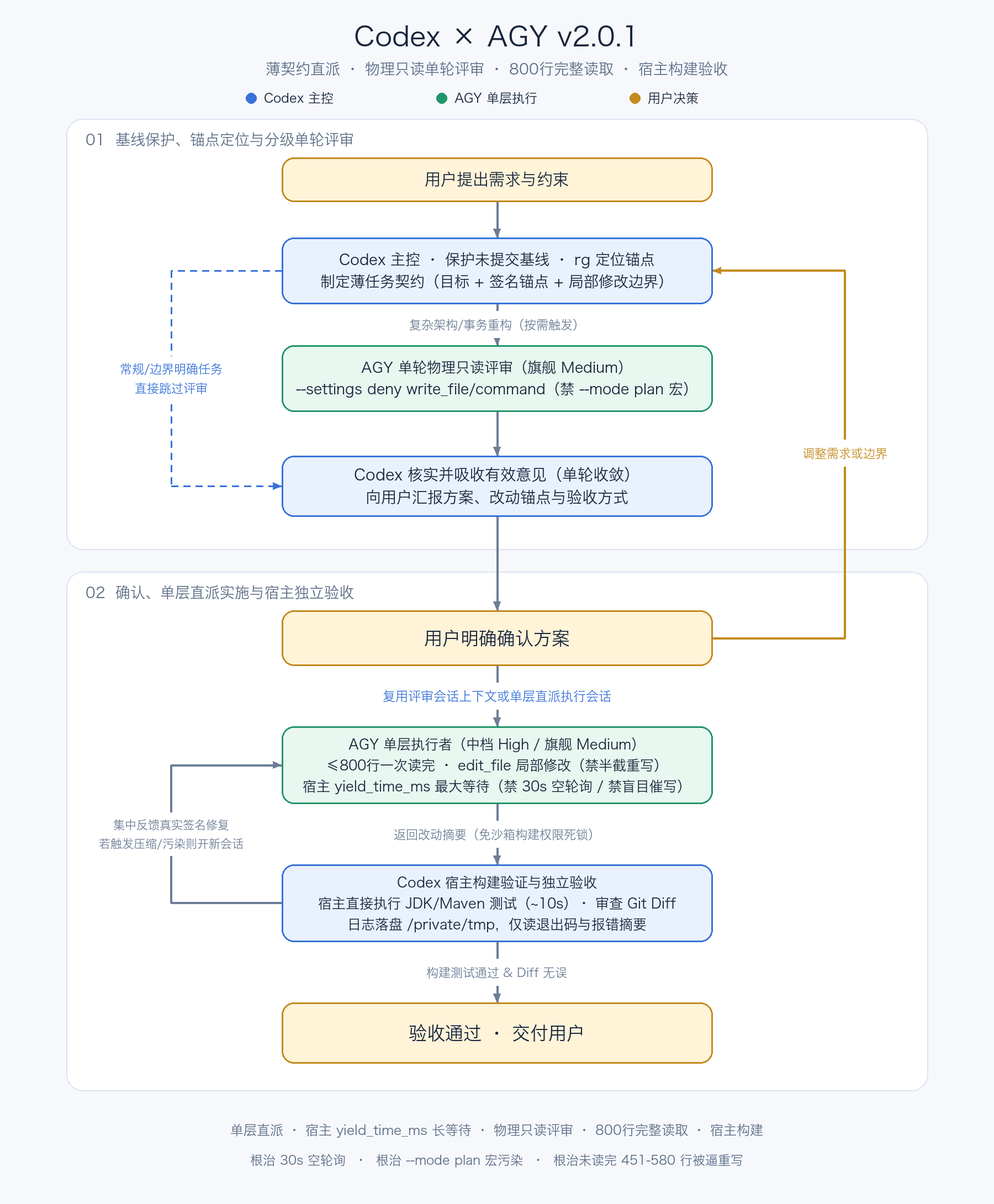
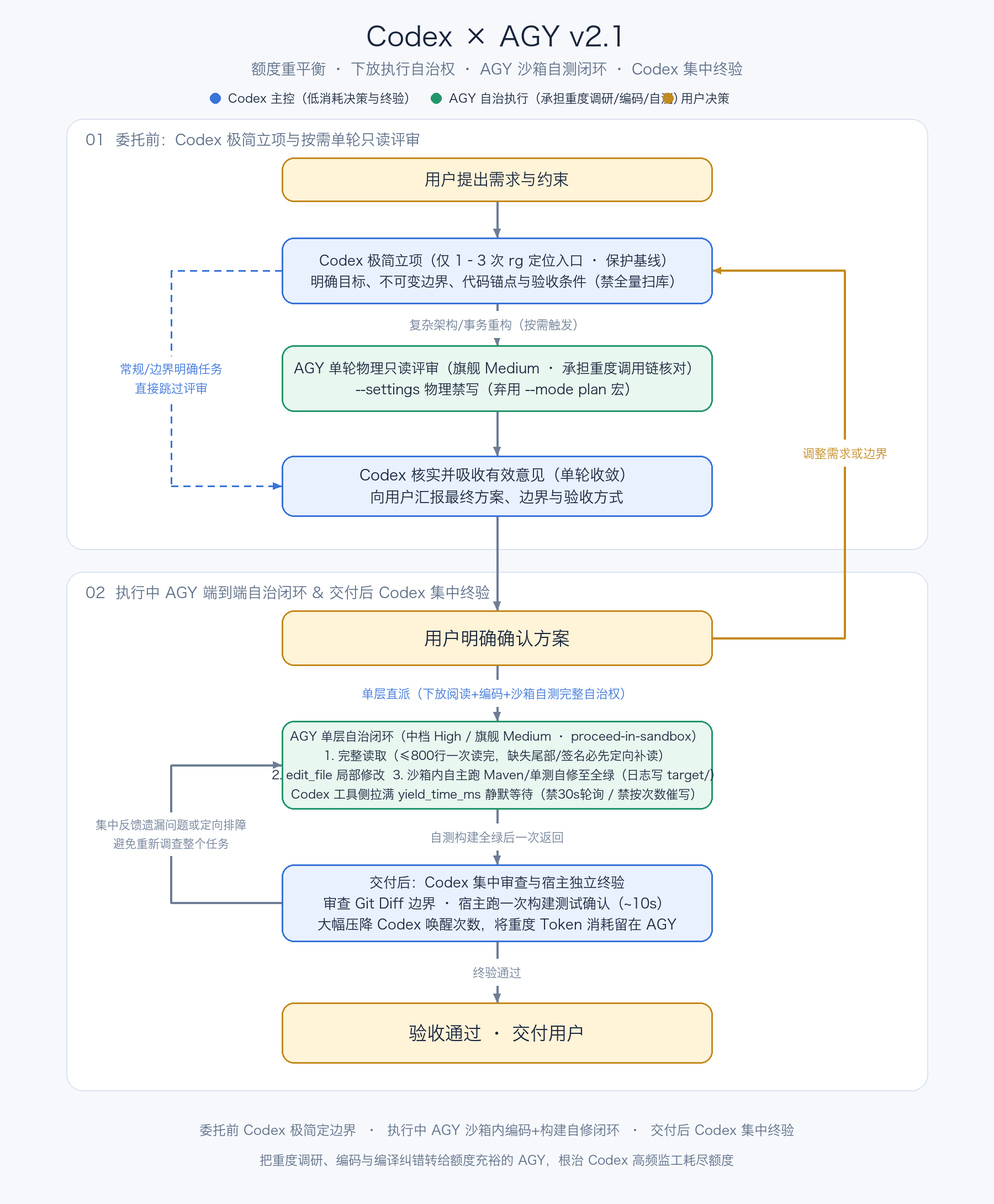
Upgrade to v2.1.0 quota-rebalancing architecture: grant AGY full sandbox build-fix autonomy

diff --git a/codex-agy/SKILL.md b/codex-agy/SKILL.md
@@ -1,76 +1,73 @@
 ---
 name: codex-agy
-description: 通过 Antigravity CLI（agy）使用 AGY 作为 Codex 的实现 Subagent。采用薄契约直派、按需单轮物理只读评审、宿主长等待（yield_time_ms）、允许必要补读与局部修改铁律。Codex 保留技术决策、基线保护、构建验证和独立验收权。
+description: 通过 Antigravity CLI（agy）使用 AGY 作为 Codex 的实现 Subagent。以“节省 Codex 额度、下放执行自治权”为核心：委托前 Codex 定边界，执行中 AGY 自主完成阅读、局部编码与沙箱内构建自修复闭环，交付后 Codex 集中终验。
 ---
 
-# 高效调用 AGY（v2.0.2 交叉审计定稿）
+# 高效调用 AGY（额度重平衡与执行自治架构）
 
-## 核心机制约束（Codex 与 AGY 双向硬边界）
+## 核心目标：把重度消耗转给 AGY，把 Codex 调用压到最低
 
-1. **对 Codex 的“三不准”指挥纪律（防瞎指挥催生重写灾难）**
-   - **不准凭读取次数或耗时宣布“上下文已充分”**：读取次数多（如 150 行切片读了 40 次）不代表文件已读完整（如 580 行文件只读到 450 行），更不代表关联 Mapper/DTO 签名已掌握。
-   - **不准用“停止阅读、立即写入”的催写指令施压**：严禁在委托或续接 Prompt 中写“你已读完所有依赖，禁止再读文件，立即写入”。
-   - **不准把缺失原文的定向补读当成无效工作**：即使续接已有会话，只要待修改的目标区间、本类尾部私有方法或关联接口签名尚未读取，**必须允许并要求 AGY 先定向补读原文再修改**。
-2. **对 AGY 的“先读全、再局部改”执行铁律**
-   - AGY 原生 `read_file` 单次支持 **800 行**（46,080 字节），`Path` **必须传入绝对路径**。800 行以内的源码文件应一次性完整读完，禁止按 100–150 行碎片化切片慢读导致漏掉文件尾部 helper。
-   - **对已有业务类必须使用 `edit_file` 局部修改**：若发现目标行区间或依赖的 Mapper/Service 签名尚未读入上下文，**必须先定向 `read_file` 补齐真实原文**，严禁在缺失原文时调用 `write_file(Overwrite=true)` 全文重新生成已有业务类或臆造方法名。
-3. **宿主持续等待，禁止短轮询唤醒模型（防 Codex 额度空转）**
-   - 控制等待间隔的是 Codex 宿主工具（`exec_command` / `write_stdin`）的 **`yield_time_ms`**，而非 `agy` 的 `--print-timeout`（后者只会导致 `agy` 到点自杀截断正在执行的回合）。
-   - 调用 `agy -p` 时，应将宿主工具单次等待拉到上限，尽量在工具侧完成等待后再返回模型；**严禁显式硬编码 `yield_time_ms: 1000` 或 `30000` 循环空轮询**，等待期间更**禁止夹带 `git diff`、`stat` 或解析 `~/.gemini/antigravity-cli/` 内部 `.pb` / `transcript.jsonl` 记录**。
-4. **只读评审禁用 `--mode plan`，改用权限层物理只读**
-   - `agy` CLI 的 `--mode plan` 在二进制底层会自动注入 `/plan` 前缀，强制展开 1,500+ 字符的 `<PLAN>` 系统宏（要求全库调研并写 Artifact 计划文档），加 `--disable-slash-commands` 也无法阻止模式自身的注入。
-   - 只读可行性评审**一律不传 `--mode plan`、不在 Prompt 内写 `/plan`**，改用 `--mode accept-edits --disable-slash-commands` 配合 `--settings` 在权限层物理禁写（`deny: ["write_file(*)", "command(*)"]`）。
-5. **单层直派，砍掉外部双 CLI 进程传话筒**
-   - 默认由 **Codex 直接派发单个 AGY 会话**完成编码与修复。**严禁在外部同时启动“AGY 负责人 + AGY 执行者”两个独立 `agy -p` 进程传话或发 `send_message`**（负责人未读源码细节却转发催写指令，只会放大指挥错误）。
-6. **权限与交付要求一致 + 宿主构建解耦 + 脏工作区基线保护**
-   - **权限一致**：若要求 AGY 读取 `/private/tmp` 下的基线或日志，必须在 `--settings` 中开启 `"allowNonWorkspaceAccess": true` 并显式加入 `read_file(/private/tmp/...)`；否则直接由 Codex 把关键信息内嵌在 Prompt 中。
-   - **宿主构建**：本地 JDK/Maven 构建与测试统一由 Codex 在宿主环境执行（约 10 秒），不在 AGY 沙箱内折腾跨目录构建权限，也不做开工前 `git status` / `AGY_WORKER_READY` 仪式性探测。
-   - **基线保护**：若工作区存在未提交的前序实现，开工前必须先保存快照或 `git stash create`，**严禁在回滚单轮修改时直接恢复 `git HEAD` 清空未提交成果**。
+协作的衡量标准是：**完成同等任务时，Codex 的总模型调用次数与 Token 消耗大幅下降，返工轮次最小化**。为此必须把“编码”和“执行过程的自主权（详查代码、编译自检、局部纠错）”一并交给额度充裕的 AGY，禁止 Codex 充当高频监工或人肉编译器。
 
 ---
 
-## 从设计到验收（精简 4 步流）
+## 四个阶段的职责边界
 
-### 1. Codex 保护基线、定向锚定与薄任务契约
-- 检查 `git status --short`：若有未提交改动，先保存恢复基线。
-- 用 `rg` 定位入口、契约与受影响文件，整理**薄任务契约（Thin Spec）**，包含：
-  1. **业务目标与必须保留的既有行为**（先与用户确认是否需要额外强协调语义，不自行扩张架构）；
-  2. **目标文件绝对路径与真实方法签名锚点**；
-  3. **实施边界**：要求用绝对路径调用 `read_file` 一次性读完 ≤800 行文件，缺失依赖签名时允许定向补读，对已有类用 `edit_file` 局部修改，严禁 `write_file(Overwrite=true)` 整体重写；
-  4. **验收标准**。
+### 1. 委托前：Codex 极简立项（不替 AGY 做全量代码阅读）
+- **控制 Codex 上下文体积**：Codex 仅用 1–3 次 `rg` 确认核心入口目录与关键契约文件，**禁止 Codex 自行读取几十个源码文件或跨多个仓库做地毯式调研**（每次把几万行代码塞进 Codex 上下文，后续每一轮调度都会成倍烧掉 Codex 额度）。
+- **脏工作区基线保护**：若 `git status --short` 显示工作区已有未提交的前序实现，先用 `git stash create` 或打包备份记录恢复基线，**严禁在回滚单轮改动时直接对脏工作区执行 `git checkout HEAD` / `git reset --hard`**。
+- **明确四要素即可派发**：
+  1. **业务目标与关键技术决策**（先向用户确认是否需要强协调语义，不自行过度设计）；
+  2. **不可变边界**（必须保留的表、接口、协议、事务/ACK 顺序）；
+  3. **代码锚点与局部修改要求**；
+  4. **验收命令与通过标准**（如本机 JDK8 离线 Maven 测试命令）。
 
-### 2. 分级触发：单轮物理只读可行性评审（按需）
-- **何时跳过**：需求边界清晰、单模块局部改造、明确删减冗余或常规修复，向用户确认方案后直奔第 3 步。
-- **何时触发**：涉及跨服务契约、并发/锁/事务边界、状态机重构或存在技术路线分歧时，用旗舰模型 Medium 做**单轮（One-shot）只读评审**：
+### 2. 按需可行性评审：让 AGY 做重度只读调研（单轮收敛）
+- **常规/边界清晰任务**：直接跳过评审，向用户确认方案后进入第 3 步实施。
+- **复杂架构/事务重构任务**：把跨文件调用链核对与可行性评估交给旗舰模型 Medium 的 AGY 单轮完成。
+- **禁用 `--mode plan`（防 1,500 字 `<PLAN>` 宏污染）**：`agy` 二进制底层会将 `--mode plan` 自动展开为 `/plan` 宏（要求全库扫描并写 Artifact 文件）。只读评审一律使用 `--mode accept-edits --disable-slash-commands` 搭配 `--settings` 物理禁写：
   ```bash
   agy --project '<项目ID>' --model '<旗舰 Medium 模型 ID>' --mode accept-edits --disable-slash-commands \
     --settings '{"allowNonWorkspaceAccess":false,"enableTerminalSandbox":true,"toolPermission":"request-review","permissions":{"allow":["read_file(/绝对路径/工作区根目录)"],"deny":["write_file(*)","command(*)","mcp(*)","read_url(*)"]}}' \
     --output-format json \
-    -p '只读可行性评审（禁止写文件或执行命令）。请用 read_file（传绝对路径，≤800行一次读完）读取以下锚点文件及必要关联接口，直接指出：1. 方案是否可行；2. 与现有签名/事务/协议的冲突或遗漏边界；3. 必须修正项。'
+    -p '只读可行性评审（禁止写文件或执行命令）。请用 read_file（传绝对路径，≤800行一次读完）核对以下锚点文件及关联调用链，指出：1. 方案是否可行；2. 与现有接口签名/事务/协议的冲突或遗漏边界；3. 必须修正项。'
   ```
-- **单轮收敛**：Codex 核实 AGY 的评审意见后，采纳有效修正并向用户汇报最终方案等待确认，不进行多轮形式化辩论。
+- Codex 吸收有效意见后直接向用户汇报定稿，**不与 AGY 进行多轮文字辩论**。
 
-### 3. 用户明确确认后：单层直派实施
-收到用户明确确认后，放开工作区文件读写权限，启动单层实施（可复用评审会话 `conversation_id` 并更新 `--settings` 放开 `write_file`，或直派新会话）：
+### 3. 执行中：AGY 端到端自治闭环，Codex 静默等待
+收到用户明确确认后，**由 Codex 直接派发单个 AGY 执行会话**（严禁在外部同时起“AGY 负责人 + AGY 执行者”两个 CLI 进程传话）。
+
+#### （1）赋予 AGY 沙箱内“编码 + 本地构建自修复”完整自治权
+- 不要让 AGY 写完代码盲交回来等 Codex 编译报错！那会让每次拼写/签名小错都消耗一轮 Codex 40 万 Token 的上下文往返。
+- 使用 `--sandbox` 搭配会话设置 `"enableTerminalSandbox": true, "toolPermission": "proceed-in-sandbox"`，允许 AGY 在沙箱内直接运行本地 JDK/Maven 测试，**自己看报错、自己修到编译与单测全绿后再退出返回**。
+- **避开 `/private/tmp` 写冲突与 `unsandboxed` 拒绝的铁律**：
+  - macOS Seatbelt 沙箱下，向 `/private/tmp` 中已存在的日志文件做 `>` 重定向会报 `operation not permitted`，进而诱发 AGY 尝试 `BypassSandbox=true` 被拒（`unsandboxed` 错误）。
+  - 因此必须在提示词中规定：**AGY 在沙箱内运行 Maven/测试时，直接读取命令标准输出，或将日志重定向到工作区内的 `target/` 目录（如 `target/agy-build.log`），严禁重定向到 `/private/tmp`，严禁设置 `BypassSandbox=true`**。
+
 ```bash
-agy --project '<项目ID>' --model '<中档 High 模型 ID>' --mode accept-edits --disable-slash-commands \
-  --settings '{"allowNonWorkspaceAccess":false,"enableTerminalSandbox":true,"toolPermission":"request-review","permissions":{"allow":["read_file(/绝对路径/工作区根目录)","write_file(/绝对路径/工作区根目录)"],"deny":["command(*)","mcp(*)","read_url(*)"]}}' \
+agy --project '<项目ID>' --model '<中档 High 模型 ID>' --mode accept-edits --disable-slash-commands --sandbox \
+  --settings '{"allowNonWorkspaceAccess":false,"enableTerminalSandbox":true,"toolPermission":"proceed-in-sandbox","permissions":{"allow":["read_file(/绝对路径/工作区根目录)","write_file(/绝对路径/工作区根目录)","command(env)","command(mvn)","command(git status)","command(git diff)"],"deny":["unsandboxed(*)","command(git checkout)","command(git reset)","command(git clean)","command(git commit)","command(git push)","mcp(*)","read_url(*)"]}}' \
   --output-format json \
-  -p '按以下已确认方案完成代码与测试修改。规则：1. 文件工具必须传绝对路径；2. 800行以内的待改文件一次 read_file 读完，未读到的本类尾部或关联 Mapper/DTO 签名必须先定向补读核实；3. 对已有复杂业务类必须使用 edit_file 局部修改，严禁在未核实原文时用 write_file 全文重写或臆造方法；4. 无需运行外部 Maven 命令，完成后返回改动摘要，由 Codex 宿主执行构建验证。'
+  -p '按以下已确认边界完成编码、单测与本地构建自检闭环：
+1. 完整读取：调用文件工具必须传绝对路径；800行以内的文件一次 read_file 读完（禁止150行切片慢读）；未读到的本类尾部私有方法或关联 Mapper/DTO 签名必须先定向补读核实。
+2. 局部修改：对已有复杂业务类必须使用 edit_file 局部修改，严禁在缺失原文时调用 write_file(Overwrite=true) 全文重新生成或臆造不存在的方法。
+3. 自主构建修复：修改后直接在沙箱内运行构建测试命令（不要设 BypassSandbox=true，不要重定向到 /private/tmp，如需落盘日志写到 target/agy-build.log），若有编译或测试错误请自行定位修复，直到构建全绿后再集中返回改动摘要与测试结果。'
 ```
 
-### 4. Codex 宿主构建验证与集中修复
-- AGY 返回后，Codex 在宿主环境审查 `git diff` 并运行真实构建测试（如 JDK8 Maven `clean test` / `clean package`）。
-- 若有编译或测试问题，Codex 将**所有报错位置、真实接口签名与审查发现一次性汇总**，用 `--conversation '<实施会话 ID>'` 续接修复（保证要求读取的日志/基线路径在 `permissions.allow` 中已授权，或直接内嵌关键报错片段）。
-- 若会话已出现 `CHECKPOINT` 自动压缩且丢失源码细节，或跨多轮改动导致历史状态与当前工作区文件不一致，则从当前已核实的 Git 状态开启新会话，仅传入待修文件的绝对路径与真实签名。
+#### （2）Codex 执行中“三不准”与长等待纪律
+- **工具侧持续等待，减少无信息唤醒**：Codex 调用 `exec_command` / `write_stdin` 等待 `agy -p` 时，必须将 `yield_time_ms` 设为工具支持的最大上限；`agy` 侧不设短 `--print-timeout` 截断任务。
+- **等待期间零折腾**：若单次等待到期进程仍在运行，仅继续純等待；**严禁每隔 1–30 秒唤醒模型轮询，严禁在等待期间夹带 `git diff`、`stat` 或编写脚本解析 `~/.gemini/antigravity-cli/` 内部 `.pb` / `transcript.jsonl` 记录**。
+- **不准凭读取次数或耗时催写**：严禁主观宣布“你已读取 N 次源码、上下文已具备，禁止继续读取、立即写入”，不得把 AGY 对缺失原文或关联签名的必要补读当成无效工作。
+
+### 4. 交付后与阻塞处理：Codex 集中终验、定向排障
+- **交付后一次性终验**：AGY 完成自检返回后，Codex 审查 `git diff` 并独立运行一次宿主构建测试确认结果。若有遗漏问题，**一次性集中列出所有问题、文件行号与真实签名**，用 `--conversation '<会话 ID>'` 交回修复。
+- **出现阻塞时定向处理**：
+  - 若因权限拒绝（`denied_actions`）中断，只针对被拒的具体路径/命令修正 `--settings`（例如确实需要读 `/private/tmp` 下某文件时，必须同步开启 `"allowNonWorkspaceAccess": true` 并授权该路径），然后续接原会话，**严禁推翻重查整个任务**。
+  - 若会话已发生 `CHECKPOINT` 自动压缩（~256K tokens）且出现接口遗忘，则从当前已核实的 Git 状态开启新会话，仅传入剩余待修文件与具体问题。
 
 ---
 
-## 项目归属、模型与额度检查
+## 项目归属与模型额度（仅首次核对）
 
-1. **同名项目精确匹配**：
-   - 在目标仓库根目录（`pwd -P` 解析后的绝对路径）启动 `agy`。
-   - 首次委托时从 `~/.gemini/config/projects/*.json` 选择名称匹配且 `projectResources.resources[]` 仅绑定当前目标仓库的精确项目 `id`，后续复用 `--project '<项目 ID>'`。
-2. **模型与额度检查**：
-   - 仅在当前对话首次使用 AGY、或遇到配额/429 报错时执行一次 `agy models` 与 `agy -p '/usage'`。
-   - 复杂评审用有额度的旗舰模型 Medium（如 `gemini-4-argon-medium`）；编码与修复用中档模型 High（如 `gemini-3.8-flash-high`）或旗舰 Medium。
+1. **同名项目精确匹配**：首次委托时从 `~/.gemini/config/projects/*.json` 选出名称匹配且 `projectResources.resources[]` 仅绑定当前目标仓库的精确 `id`，后续复用 `--project '<项目 ID>'`。
+2. **额度与模型**：仅在对话首次使用 AGY 或遇 429 报错时查一次 `agy models` 与 `agy -p '/usage'`。只读评审用旗舰模型 Medium（如 `gemini-4-argon-medium`），实施与自测用中档模型 High（如 `gemini-3.8-flash-high`）或旗舰 Medium。

diff --git a/CHANGELOG.md b/CHANGELOG.md
@@ -1,33 +1,40 @@
 # Changelog
 
-## [2.0.2] - 2026-11-10 — 双 Agent 交叉审计最终共识（确立 Codex“三不准”指挥纪律与必要补读保护）
+## [2.1.0] - 2026-11-10 — 额度重平衡与执行自治架构（解决“Codex 额度耗尽 100%、Gemini 仅耗 6%”的本末倒置）
 
-经与 Codex 对原始执行日志（`01a1b0a7` 与 `31cd7989`）的双向交叉复核，双方对全部事实链条、各自责任边界及底层机制达成完整共识，并合入最终定稿规则：
+### 一、直击核心矛盾：为什么把编码交出去，Codex 额度反而比自己干还快耗尽？
 
-### 一、双方共同确认的完整因果链与责任边界
+复盘整个任务的终极失败指标：**用户引入 AGY（Gemini）是为了分担工作、节省主控 Codex 的宝贵额度；结果任务结束时 Codex 额度被彻底烧光，而 Gemini 额度仅消耗了 6%。**
 
-1. **`PublicHealthIngestService` 全文覆盖与 11 个编译错误的完整证据链**
-   - `15:02`：AGY 分三次切片读取 `PublicHealthIngestService.java`（共 580 行）的 `1–450` 行，尚未读取 `451–580` 行（包含私有 helper、明细插入与索引更新）。
-   - `15:09–15:15`：**Codex 指挥失误**——未核实读取覆盖范围，仅凭“已读约 30–46 次、7 分钟无写入”主观断言“已读取所有必要依赖”，先令负责人发高优 `send_message` 催写，又在第 131 步下令“禁止重复全量阅读，立即开始修改”。
-   - `15:17`：**AGY 执行违规**——在未对缺失的 `451–580` 行及关联 Mapper 做定向补读的情况下，违反局部修改要求，调用 `write_file(Overwrite=true)` 整体生成 529 行新代码并臆造方法名。
-   - `15:24`：**Codex 权限冲突**——构建报 11 处编译错误后，AGY 从基线包解压原文件试图补读 `420–580` 行，被 Codex 配置的 `--settings`（禁止访问工作区外 `/private/tmp`）拦截，导致返工进一步扩大。
-   - `15:36`：会话累计上下文达到 ~256K 触发 `CHECKPOINT` 自动压缩。
-2. **Codex 49 次空等待返回与缓存成本核算**
-   - Codex 在调用 `write_stdin` 时显式硬编码了 `yield_time_ms: 30000`（30 秒）及 `1000`（1 秒），主动选择了高频唤醒模型并穿插检查 `git diff`、`stat` 与内部日志的执行方式，在最后一轮产生 49 次空输出返回（紧随其后的模型调用累计携带 1,832 万输入 tokens）。
-   - 按 GPT-6.1 Sol 官方 Standard credits 计价（缓存输入单价为未缓存输入的 5%），全天 8,364 万缓存输入对应的 credits 仍约为 77.5 万未缓存输入的 **5.4 倍**，高缓存命中率并不能消除高频唤醒带来的主要成本。
-3. **无并行收益的负责人传话层**
-   - 负责人（`7f11f987`）在未独立核实源码阅读覆盖率的情况下，直接照搬 Codex 的错误判断向执行者转发高优先级催促，既未提供有效协调信息，又增加了一层旗舰模型调用与指令压力。
+根本原因在于**“只把敲代码交了出去，却没有把执行过程的自主权交出去”**：
+1. **委托前 Codex 自己干了重体力调研**：Codex 自己在仓库里执行了 76 次搜索/文件读取、跨 3 个微服务比对实现、撰写 5 份长篇设计/委托文档，在还没调 AGY 前就把自己的上下文撑到了 30 万～42 万 tokens。
+2. **执行中 Codex 高频监工**：每隔 1～30 秒唤醒自己 40 万 token 的上下文去轮询、看 `git diff`、解析 AGY 内部数据库、按读取次数发催写指令。
+3. **打断 AGY 的沙箱自测闭环，把 Codex 变成“人肉编译器”**：
+   - 核查 `31cd7989` 原始记录（第 212、276、280、371–529 步）发现：**AGY 在 `--sandbox`（`proceed-in-sandbox`）下原本完全可以自己运行 JDK8 Maven 编译与单测（13 次成功，每次仅 6 秒）**！
+   - 唯一一次失败（第 276/280 步）是因为 Codex 要求把日志重定向到 `/private/tmp/ph-four-implementation-build.log`，在 macOS Seatbelt 沙箱下覆盖已有 `/private/tmp` 文件触发 `zsh:1: operation not permitted`，导致 AGY 误以为沙箱拦截了 Maven 而尝试 `BypassSandbox=true` 被拒。
+   - 如果不让 AGY 在自己回合内完成“编码 $\rightarrow$ 本地编译测试 $\rightarrow$ 自修报错”闭环，而是每次小错都退回给 Codex 编译再续接，Codex 就会在多轮往返中被迅速吸干额度。
 
-### 二、v2.0.2 最终加固规则
+---
 
-- **写入对主控 Codex 的“三不准”纪律**：
-  1. 不得凭工具调用次数或等待时长断言“上下文已充分”；
-  2. 不得用“禁止阅读、立即写入”的催促替代具体阻塞排查；
-  3. 不得把缺失原文区间或关联接口签名的**必要定向补读**当成无效工作禁止。
-- **写入对执行者 AGY 的“先补齐原文、再局部修改”铁律**：
-  - ≤800 行文件传绝对路径一次性读完（禁 150 行碎片切片）；若待改区域或关联 Mapper/DTO 签名未读入上下文，**必须先定向 `read_file` 补读核实**，严禁在缺失原文时用 `write_file(Overwrite=true)` 整体重写已有业务类。
-- **权限与交付要求对齐**：
-  - 凡要求 AGY 读取 `/private/tmp` 基线或日志时，必须同步开启 `allowNonWorkspaceAccess: true` 与对应路径 `read_file` 授权；构建测试统一由 Codex 宿主执行。
+### 二、v2.1.0 核心重构：四个阶段的彻底减负与自治下放
+
+1. **委托前（Codex 极简立项，重度调研下放 AGY）**
+   - Codex 只用 1–3 次 `rg` 定位入口并保护未提交基线，明确**目标、必要设计、不可变边界与验收条件**；绝不自行全量扫库把几万行源码塞进主控上下文。
+2. **执行中（AGY 沙箱内“读取 + 编码 + 构建自修复”全闭环自治）**
+   - 赋予 AGY `--sandbox` + `toolPermission: "proceed-in-sandbox"` 权限，允许其在工作区内自由读写源码并直接运行本地 Maven/测试命令。
+   - **破除沙箱构建伪阻塞**：明确要求 AGY 直接读命令标准输出或将构建日志写入工作区内 `target/agy-build.log`，**严禁重定向到 `/private/tmp`，严禁设置 `BypassSandbox=true`**。AGY 必须在单回合内自主把代码和单测修到全绿再返回。
+   - **Codex 静默长等待与“三不准”**：工具侧拉满 `yield_time_ms` 持续等待，不轮询、不扒内部状态库、不凭读取次数或耗时催写、不禁止缺失原文（如 `PublicHealthIngestService` 451–580 行）的必要定向补读。
+3. **交付后（Codex 一次性集中终验）**
+   - AGY 交付全绿结果后，Codex 集中审查 `git diff` 并做一次宿主构建终验；若有遗漏问题一次性打包交回。
+4. **出现阻塞时（定向排障，不重查全局）**
+   - 仅针对具体阻塞点（如补齐某个路径权限或澄清业务边界）定点恢复，绝不推翻重来。
+
+---
+
+## [2.0.2] - 2026-11-10 — 双 Agent 交叉审计共识（确立完整因果链与双向边界）
+
+- **校准 `PublicHealthIngestService` 11 处编译错误的完整因果链**：`15:02` AGY 分三次仅读 `1–450/580` 行 $\rightarrow$ `15:09–15:15` Codex 凭“已读 46 次”误判读完并借负责人与 Prompt 双重催写禁读 $\rightarrow$ `15:17` AGY 未补读 `451–580` 行便违反局部修改要求用 `write_file(Overwrite=true)` 全文生成 $\rightarrow$ `15:24` AGY 解压基线试图补读 `420–580` 行又被 `/private/tmp` 权限拒绝 $\rightarrow$ `15:36` 触发 256K 自动压缩。
+- **校准缓存成本**：按 GPT-6.1 Sol 官方 Standard credits（缓存输入单价为普通输入的 5%），全天 8,364 万缓存输入对应的 credits 仍达 77.5 万未缓存输入的 **5.4 倍**。
 
 ---
 
@@ -35,9 +42,3 @@
 
 - **弃用 `--mode plan`**：反编译 `/Users/du/.local/bin/agy` 证实 `--mode plan` 底层自动注入 `/plan` 宏；只读评审改用 `--mode accept-edits --disable-slash-commands` 搭配 `--settings` 物理禁写（`deny: ["write_file(*)","command(*)"]`）。
 - **脏工作区基线保护**：开工前若有未提交改动，必须先建快照或 `git stash create`，严禁在回滚单轮改动时直接恢复 `git HEAD`。
-
----
-
-## [2.0.0] - 2026-11-09 — 薄契约直派架构重构
-
-- 默认采用 `Codex -> 单个 AGY 执行会话` 单层直派，取消常态化双 CLI 进程传话结构、取消开工前仪式性探测会话，并将 JDK/Maven 构建验证回迁至 Codex 宿主环境。

diff --git a/README.md b/README.md
@@ -1,6 +1,6 @@
 # Codex AGY
 
-Codex 负责理解需求、保护未提交基线、锚定关键文件、制定薄任务契约并执行宿主构建与独立验收；AGY 通过原生 CLI（`agy -p`）按需提供单轮物理只读可行性反馈，并在授权范围内用原生文件工具完成生产代码、测试代码与配置的局部修改。
+用额度充裕的 AGY（Gemini）分担重度代码调研、编码与本地构建自修复闭环，将主控 Codex 的额度集中在高价值的边界设定、技术决策与最终独立验收上。
 
 将 [AGENTS.md](AGENTS.md) 中的分工合并到目标项目的 `AGENTS.md`。确认 `agy` 已安装并登录，然后在本仓库根目录安装 Skill：
 
@@ -10,18 +10,18 @@ cp codex-agy/SKILL.md ~/.codex/skills/codex-agy/SKILL.md
 ```
 
 在目标项目的 Codex 对话中按需调用 `$codex-agy`。
-- [SKILL.md](codex-agy/SKILL.md)：薄契约直派、物理只读单轮评审、宿主 `yield_time_ms` 长等待、800 行完整读取与防半截重写、脏基线保护与宿主构建验收规范。
-- [CHANGELOG.md](CHANGELOG.md)：v2.0 / v2.0.1 架构重构复盘与底层机制取证（含 `PublicHealthIngestService` 451–580 行漏读强令重写事件、`--mode plan` 二进制宏注入与 `yield_time_ms` 空转账单剖析）。
+- [SKILL.md](codex-agy/SKILL.md)：额度重平衡与执行自治规范（委托前极简立项、执行中 AGY 沙箱内编码+构建自测闭环、Codex 静默长等待与三不准纪律、交付后集中终验）。
+- [CHANGELOG.md](CHANGELOG.md)：v2.1.0 额度重平衡复盘与全链路证据取证。
 
-## 架构与执行流程（v2.0.1）
+## 架构与执行流程（v2.1 额度重平衡与执行自治）
 
 ![Codex 与 AGY 架构及执行流程](assets/architecture.png)
 
 [查看完整尺寸 PNG](assets/architecture.png)
 
-### 核心机制
+### 四阶段协作原则
 
-1. **薄契约单层直派（砍掉双进程传话层）**：Codex 先保护未提交基线，用 `rg` 定位核心文件与真实方法签名，直接派发给单个 AGY 会话，不在外部同时维护“负责人 + 执行者”双 CLI 进程。
-2. **分级单轮物理只读评审**：常规局部改动确认后直派实施；复杂架构/事务重构触发单轮只读评审（通过 `--settings` 设 `deny: ["write_file(*)","command(*)"]` 物理锁死只读，弃用会自动注入 1,500 字 `<PLAN>` 宏的 `--mode plan`）。
-3. **800 行完整读取 + 局部编辑铁律**：要求 AGY 使用绝对路径调用 `read_file` 一次性读完 ≤800 行的文件（严禁 150 行碎片化切片慢读），严禁 Codex 根据读取次数盲目下令禁读催写，对已有复杂业务类强制使用 `edit_file` 局部修改。
-4. **宿主长等待与宿主构建解耦**：Codex 调用 `exec_command` / `write_stdin` 必须将 `yield_time_ms` 拉到最大上限（严禁 30 秒空轮询与扒内部状态库）；JDK/Maven 构建测试统一由 Codex 在宿主环境执行（单次仅 ~10 秒），彻底消除沙箱权限死锁。
+1. **委托前（Codex 极简立项）**：Codex 保护未提交基线，仅用 1–3 次 `rg` 定位入口，明确**目标、必要设计、不可变边界和验收条件**，不自行全量扫库撑爆主控上下文；若需跨多文件可行性核对，交由 AGY 单轮物理只读评审完成。
+2. **执行中（AGY 自主闭环，Codex 静默等待）**：单层直派单个 AGY 会话（`--sandbox` + `proceed-in-sandbox`），由 AGY 自主完成**完整读取（≤800行一次读完，缺失必补读）、`edit_file` 局部修改、沙箱内运行本地 Maven/测试（日志写 `target/`，禁写 `/private/tmp`、禁 `BypassSandbox`）并自修到全绿**。期间 Codex 工具侧持续长等待，不按读取次数和耗时催写。
+3. **交付后（Codex 集中终验）**：Codex 对 AGY 自测通过的代码集中审查 `git diff` 并做宿主独立验证，把实际遗漏问题一次性交回修复。
+4. **出现阻塞时（定向排障）**：仅针对具体阻塞（如补齐某项路径权限或澄清边界）处理，避免重新调查整个任务。

diff --git a/AGENTS.md b/AGENTS.md
@@ -1,9 +1,8 @@
-# Codex 与 AGY 的分工
+# Codex 与 AGY 的分工（额度重平衡与执行自治架构）
 
-用户决定业务目标、约束和最终验收。Codex 是唯一主 Agent，负责理解需求、快速定位代码锚点、制定薄契约方案、做架构决策，并在宿主环境执行构建测试与独立验收。
+用户决定业务目标、约束和最终验收。协作的核心目标是**用额度充裕的 AGY（Gemini）分担重度代码阅读、实现与自测闭环，将主控 Codex 的额度集中在高价值的架构决策、边界把控与最终独立验收上**。
 
-AGY 是 Codex 的实现 Subagent。它通过原生 CLI（`agy -p`）对复杂方案做单轮只读可行性评审，并在已确认范围内直接用原生文件工具完成生产代码、测试代码与配置的局部修改。若遇到需要改变技术方向或扩大范围的问题，AGY 将具体冲突交回 Codex 决策。
-
-默认采用 **Codex 直派单层 AGY 会话**，不额外套一层常驻“AGY 负责人”进程。只读评审（中/高复杂度任务按需触发）使用有额度的旗舰模型 Medium；编码与修复使用中档模型 High（或直接复用评审会话的热缓存切入实施）。
-
-生产代码、测试代码及实现配置由 AGY 编写和修改。Codex 负责宿主构建验证、独立审查 Git 差异与测试结果，并将问题集中交回 AGY 修复。调用细则与防失忆、省额度规范见 `$codex-agy` Skill。
+- **委托前（Codex 极简立项，重度调研交由 AGY）**：Codex 仅做最小必要的入口定位与基线保护，明确**业务目标、不可变边界、关键技术决策与验收条件**。若需跨多文件详查调用链与评估可行性，委托 AGY 单轮只读完成，避免 Codex 自行全量扫库撑爆上下文。
+- **执行中（AGY 端到端自治闭环，Codex 静默等待）**：默认由 **Codex 直派单个 AGY 会话**（不套外部“负责人”传话层）。AGY 在授权沙箱（`proceed-in-sandbox`）内**自主完成完整读取、局部编码、运行本地构建/单测与编译错误自修复**，直到构建全绿再返回。执行期间 Codex 在工具侧长等待，不按读取次数或耗时轮询催写。
+- **交付后（Codex 一次集中终验）**：AGY 交回已自测通过的改动后，Codex 集中审查 `git diff` 并独立跑一次宿主验证；若有遗漏问题一次性打包交回 AGY 修复。
+- **遇到阻塞时**：仅针对具体阻塞点（如缺失某项配置或需调整业务边界）定向处理，严禁推翻重查整个任务。调用细则见 `$codex-agy` Skill。
